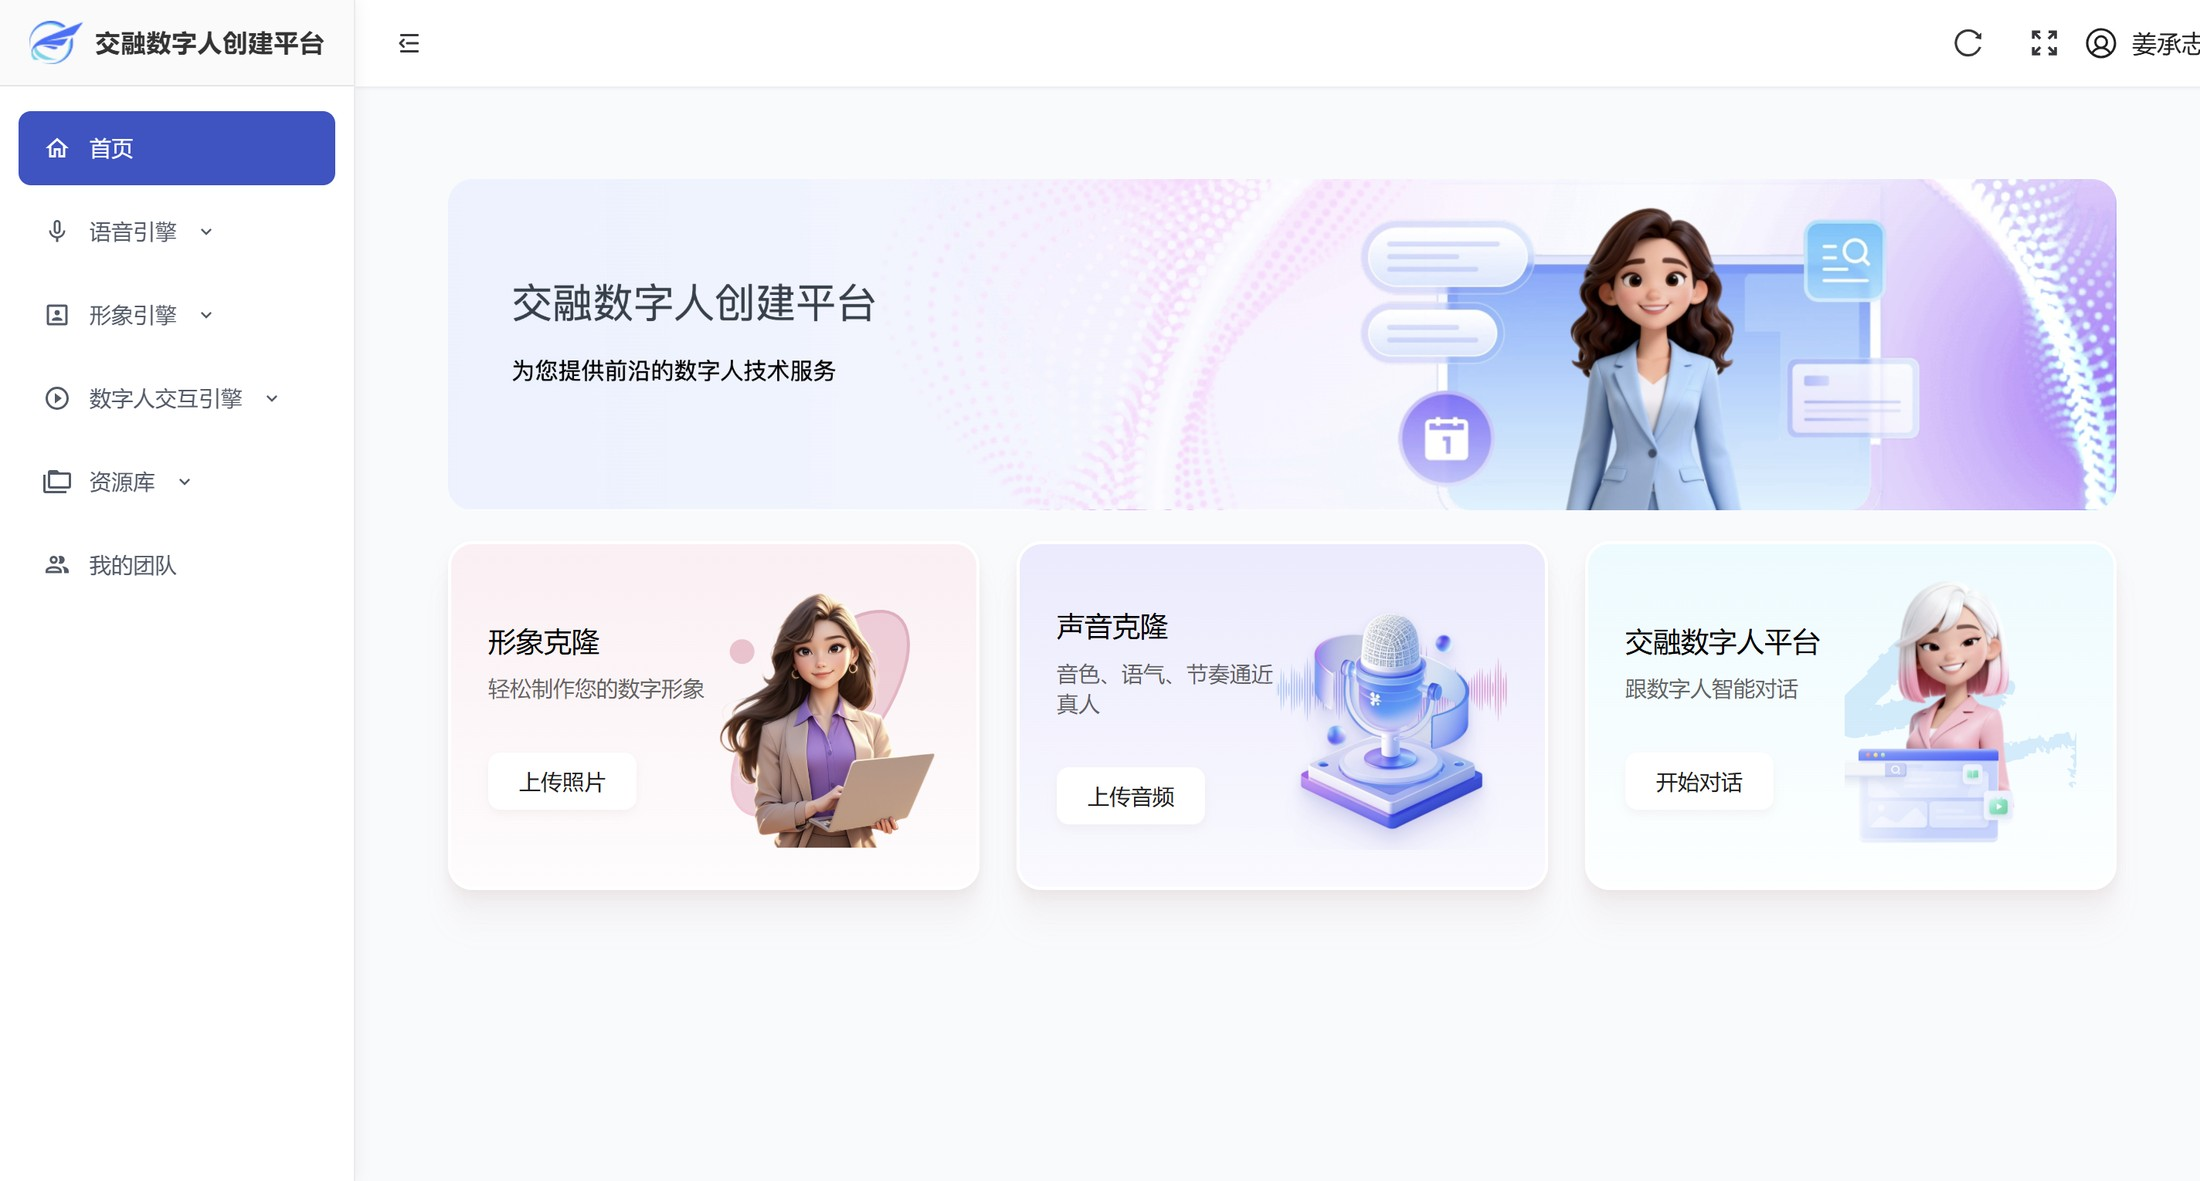
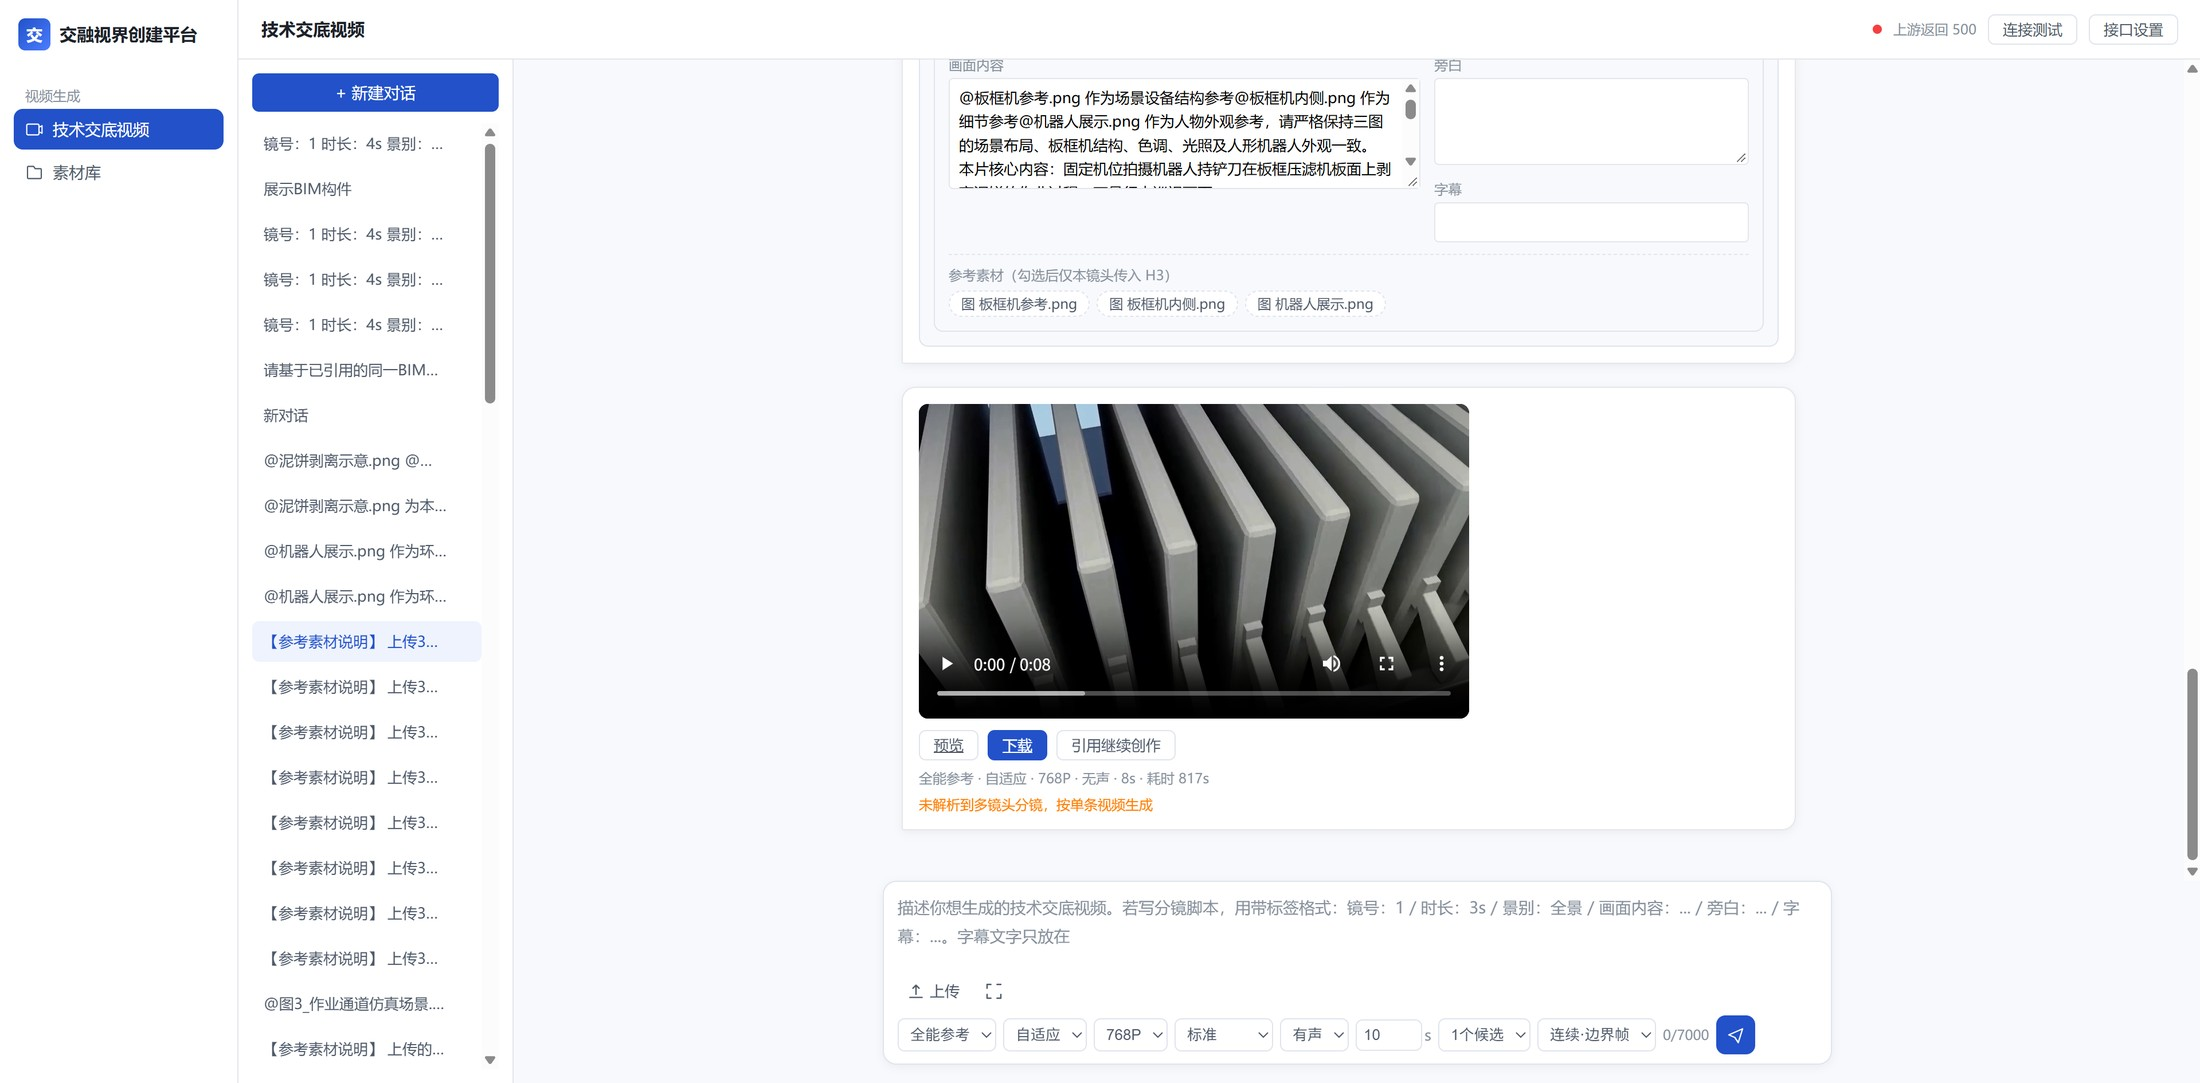
release: refreshed shijie images (v1.6.8)

diff --git a/preview/index.html b/preview/index.html
@@ -4569,7 +4569,7 @@ window.ATLAS_CONTENT.composites = [
   }
 ];
 </script>
-<script>var COVERS = {"p01": ["./assets/img/covers/p01-1.jpg"], "p02": ["./assets/img/covers/p02-1.jpg", "./assets/img/covers/p02-2.jpg", "./assets/img/covers/p02-3.jpg"], "p03": ["./assets/img/covers/p03-1.jpg", "./assets/img/covers/p03-2.jpg", "./assets/img/covers/p03-3.jpg"], "p04": ["./assets/img/covers/p04-1.jpg", "./assets/img/covers/p04-2.jpg", "./assets/img/covers/p04-3.jpg"], "p05": ["./assets/img/covers/p05-1.jpg", "./assets/img/covers/p05-2.jpg"], "p06": ["./assets/img/covers/p06-1.jpg", "./assets/img/covers/p06-2.jpg", "./assets/img/covers/p06-3.jpg"], "p09": ["./assets/img/covers/p09-1.jpg"], "p10": ["./assets/img/covers/p10-1.jpg", "./assets/img/covers/p10-2.jpg", "./assets/img/covers/p10-3.jpg"], "p11": ["./assets/img/covers/p11-1.jpg", "./assets/img/covers/p11-2.jpg"], "p15": ["./assets/img/covers/p15-1.jpg"], "p13": ["./assets/img/covers/p13-1.jpg", "./assets/img/covers/p13-2.jpg"], "p14": ["./assets/img/covers/p14-1.jpg", "./assets/img/covers/p14-2.jpg", "./assets/img/covers/p14-3.jpg"], "p16": ["./assets/img/covers/p16-1.jpg", "./assets/img/covers/p16-2.jpg"], "p17": ["./assets/img/covers/p17-1.jpg", "./assets/img/covers/p17-2.jpg", "./assets/img/covers/p17-3.jpg"], "p12": ["./assets/img/covers/p12-1.jpg", "./assets/img/covers/p12-2.jpg", "./assets/img/covers/p12-3.jpg"], "p18": ["./assets/img/covers/p18-1.jpg", "./assets/img/covers/p18-2.jpg"], "p19": ["./assets/img/covers/p19-1.jpg", "./assets/img/covers/p19-2.jpg"], "p20": ["./assets/img/covers/p20-1.jpg"], "p21": ["./assets/img/covers/p21-1.jpg"], "p22": ["./assets/img/covers/p22-1.jpg", "./assets/img/covers/p22-2.jpg", "./assets/img/covers/p22-3.jpg"], "p24": ["./assets/img/covers/p24-1.jpg", "./assets/img/covers/p24-2.jpg", "./assets/img/covers/p24-3.jpg"], "p31": ["./assets/img/covers/p31-1.jpg", "./assets/img/covers/p31-2.jpg", "./assets/img/covers/p31-3.jpg"], "p25": ["./assets/img/covers/p25-1.jpg", "./assets/img/covers/p25-2.jpg", "./assets/img/covers/p25-3.jpg"], "p27": ["./assets/img/covers/p27-1.jpg", "./assets/img/covers/p27-2.jpg", "./assets/img/covers/p27-3.jpg"], "p30": ["./assets/img/covers/p30-1.jpg"], "p32": ["./assets/img/covers/p32-1.jpg", "./assets/img/covers/p32-2.jpg"], "p29": ["./assets/img/covers/p29-1.jpg"], "p33": ["./assets/img/covers/p33-1.jpg", "./assets/img/covers/p33-2.jpg", "./assets/img/covers/p33-3.jpg"], "p34": ["./assets/img/covers/p34-1.jpg", "./assets/img/covers/p34-2.jpg", "./assets/img/covers/p34-3.jpg"], "p28": ["./assets/img/covers/p28-1.jpg"], "p36": ["./assets/img/covers/p36-1.jpg"], "p37": ["./assets/img/covers/p37-1.jpg"], "p35": ["./assets/img/covers/p35-1.jpg"], "p39": ["./assets/img/covers/p39-1.jpg"], "p40": ["./assets/img/covers/p40-1.jpg"], "p41": ["./assets/img/covers/p41-1.jpg"], "p42": ["./assets/img/covers/p42-1.jpg"], "p43": ["./assets/img/covers/p43-1.jpg"]};
+<script>var COVERS = {"p01": ["./assets/img/covers/p01-1.jpg"], "p02": ["./assets/img/covers/p02-1.jpg", "./assets/img/covers/p02-2.jpg", "./assets/img/covers/p02-3.jpg"], "p03": ["./assets/img/covers/p03-1.jpg", "./assets/img/covers/p03-2.jpg", "./assets/img/covers/p03-3.jpg"], "p04": ["./assets/img/covers/p04-1.jpg", "./assets/img/covers/p04-2.jpg", "./assets/img/covers/p04-3.jpg"], "p05": ["./assets/img/covers/p05-1.jpg", "./assets/img/covers/p05-2.jpg"], "p06": ["./assets/img/covers/p06-1.jpg", "./assets/img/covers/p06-2.jpg", "./assets/img/covers/p06-3.jpg"], "p09": ["./assets/img/covers/p09-1.jpg"], "p10": ["./assets/img/covers/p10-1.jpg", "./assets/img/covers/p10-2.jpg", "./assets/img/covers/p10-3.jpg"], "p11": ["./assets/img/covers/p11-1.jpg", "./assets/img/covers/p11-2.jpg"], "p15": ["./assets/img/covers/p15-1.jpg", "./assets/img/covers/p15-2.jpg"], "p13": ["./assets/img/covers/p13-1.jpg", "./assets/img/covers/p13-2.jpg"], "p14": ["./assets/img/covers/p14-1.jpg", "./assets/img/covers/p14-2.jpg", "./assets/img/covers/p14-3.jpg"], "p16": ["./assets/img/covers/p16-1.jpg", "./assets/img/covers/p16-2.jpg"], "p17": ["./assets/img/covers/p17-1.jpg", "./assets/img/covers/p17-2.jpg", "./assets/img/covers/p17-3.jpg"], "p12": ["./assets/img/covers/p12-1.jpg", "./assets/img/covers/p12-2.jpg", "./assets/img/covers/p12-3.jpg"], "p18": ["./assets/img/covers/p18-1.jpg", "./assets/img/covers/p18-2.jpg"], "p19": ["./assets/img/covers/p19-1.jpg", "./assets/img/covers/p19-2.jpg"], "p20": ["./assets/img/covers/p20-1.jpg"], "p21": ["./assets/img/covers/p21-1.jpg"], "p22": ["./assets/img/covers/p22-1.jpg", "./assets/img/covers/p22-2.jpg", "./assets/img/covers/p22-3.jpg"], "p24": ["./assets/img/covers/p24-1.jpg", "./assets/img/covers/p24-2.jpg", "./assets/img/covers/p24-3.jpg"], "p31": ["./assets/img/covers/p31-1.jpg", "./assets/img/covers/p31-2.jpg", "./assets/img/covers/p31-3.jpg"], "p25": ["./assets/img/covers/p25-1.jpg", "./assets/img/covers/p25-2.jpg", "./assets/img/covers/p25-3.jpg"], "p27": ["./assets/img/covers/p27-1.jpg", "./assets/img/covers/p27-2.jpg", "./assets/img/covers/p27-3.jpg"], "p30": ["./assets/img/covers/p30-1.jpg"], "p32": ["./assets/img/covers/p32-1.jpg", "./assets/img/covers/p32-2.jpg"], "p29": ["./assets/img/covers/p29-1.jpg"], "p33": ["./assets/img/covers/p33-1.jpg", "./assets/img/covers/p33-2.jpg", "./assets/img/covers/p33-3.jpg"], "p34": ["./assets/img/covers/p34-1.jpg", "./assets/img/covers/p34-2.jpg", "./assets/img/covers/p34-3.jpg"], "p28": ["./assets/img/covers/p28-1.jpg"], "p36": ["./assets/img/covers/p36-1.jpg"], "p37": ["./assets/img/covers/p37-1.jpg"], "p35": ["./assets/img/covers/p35-1.jpg"], "p39": ["./assets/img/covers/p39-1.jpg"], "p40": ["./assets/img/covers/p40-1.jpg"], "p41": ["./assets/img/covers/p41-1.jpg"], "p42": ["./assets/img/covers/p42-1.jpg"], "p43": ["./assets/img/covers/p43-1.jpg"]};
 </script>
 <script>
 (function(){
